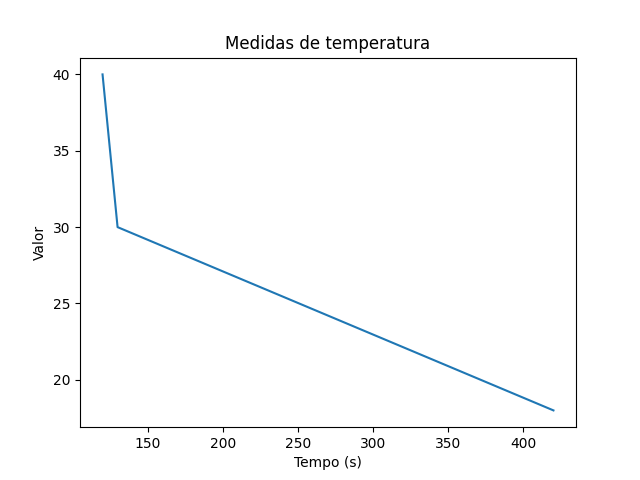
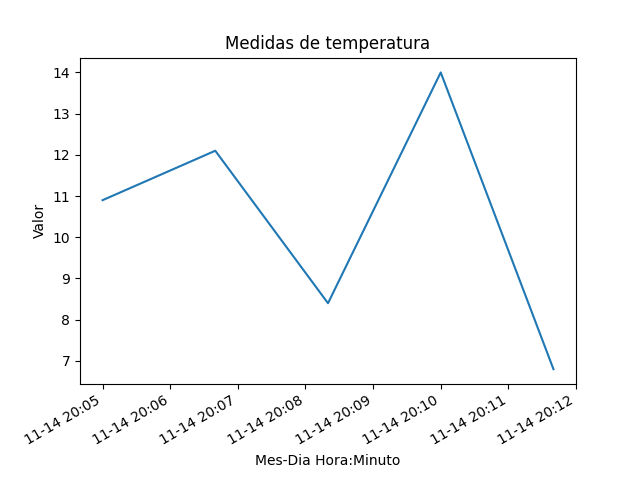
mudanças para os graficos

diff --git a/templates/base.html b/templates/base.html
@@ -14,8 +14,6 @@
         <div class="d-flex flex-column align-items-start text-center">
             <h4 class="text-white p-3 border-bottom w-100">Sensores</h4>
             <ul class="nav nav-pills flex-column mb-auto w-100">
-
-
             </ul>
         </div>
     </nav>

diff --git a/aux.py b/aux.py
@@ -1,6 +1,8 @@
 import sqlite3
 from bs4 import BeautifulSoup as Soup
 import matplotlib.pyplot as plt
+import matplotlib.dates as mdates
+from datetime import datetime
 
 DB_file = "sampleDB.db"
 
@@ -28,26 +30,25 @@ def RetrieveSensorData(sensorId):
         connection = sqlite3.connect(DB_file)
         cursor = connection.cursor()
 
-        cursor.execute(f"SELECT Valor FROM Registros WHERE (Sensor={sensorId} AND Tipo=1);")
+        cursor.execute(f"SELECT Valor FROM Registros WHERE (Sensor={sensorId} AND Tipo=1) ORDER BY TimeStamp DESC LIMIT 5;")
         DataList.append(cursor.fetchall())
 
-        cursor.execute(f"SELECT TimeStamp FROM Registros WHERE (Sensor={sensorId} AND Tipo=1);")
+        cursor.execute(f"SELECT TimeStamp FROM Registros WHERE (Sensor={sensorId} AND Tipo=1) ORDER BY TimeStamp DESC LIMIT 5;")
         DataList.append(cursor.fetchall())
 
-        cursor.execute(f"SELECT Valor FROM Registros WHERE (Sensor={sensorId} AND Tipo=2);")
+        cursor.execute(f"SELECT Valor FROM Registros WHERE (Sensor={sensorId} AND Tipo=2) ORDER BY TimeStamp DESC LIMIT 5;")
         DataList.append(cursor.fetchall())
 
-        cursor.execute(f"SELECT TimeStamp FROM Registros WHERE (Sensor={sensorId} AND Tipo=2);")
+        cursor.execute(f"SELECT TimeStamp FROM Registros WHERE (Sensor={sensorId} AND Tipo=2) ORDER BY TimeStamp DESC LIMIT 5;")
         DataList.append(cursor.fetchall())
 
-        cursor.execute(f"SELECT Valor FROM Registros WHERE (Sensor={sensorId} AND Tipo=3);")
+        cursor.execute(f"SELECT Valor FROM Registros WHERE (Sensor={sensorId} AND Tipo=3) ORDER BY TimeStamp DESC LIMIT 5;")
         DataList.append(cursor.fetchall())
 
-        cursor.execute(f"SELECT TimeStamp FROM Registros WHERE (Sensor={sensorId} AND Tipo=3);")
+        cursor.execute(f"SELECT TimeStamp FROM Registros WHERE (Sensor={sensorId} AND Tipo=3) ORDER BY TimeStamp DESC LIMIT 5;")
         DataList.append(cursor.fetchall())
 
         connection.close()
-        print(DataList)
         return DataList
 
     except sqlite3.Error as e:
@@ -105,31 +106,42 @@ def MakeGraphsForSensor(sensorId):
 
     ValoresTipo1 = DataList[0]
     TimesTipo1 = DataList[1]
+    DateTimes1 = [datetime.fromtimestamp(t[0]) for t in TimesTipo1]
 
-    plt.plot(TimesTipo1, ValoresTipo1)
-    plt.xlabel("Tempo (s)")
+    print(DateTimes1)
+
+    plt.plot(DateTimes1, ValoresTipo1)
+    plt.xlabel("Mes-Dia Hora:Minuto")
     plt.ylabel("Valor")
     plt.title("Medidas de temperatura")
+    plt.gca().xaxis.set_major_formatter(mdates.DateFormatter('%m-%d %H:%M'))
+    plt.gcf().autofmt_xdate()
     plt.savefig(f"static/tempGraph/{sensorId}.png")
     plt.clf()
 
     ValoresTipo2 = DataList[2]
     TimesTipo2 = DataList[3]
+    DateTimes2 = [datetime.fromtimestamp(t[0]) for t in TimesTipo2]
 
-    plt.plot(TimesTipo2, ValoresTipo2)
-    plt.xlabel("Tempo (s)")
+    plt.plot(DateTimes2, ValoresTipo2)
+    plt.xlabel("Mes-Dia Hora:Minuto")
     plt.ylabel("Valor")
     plt.title("Medidas de poeira")
+    plt.gca().xaxis.set_major_formatter(mdates.DateFormatter('%m-%d %H:%M'))
+    plt.gcf().autofmt_xdate()
     plt.savefig(f"static/dustGraph/{sensorId}.png")
     plt.clf()
 
     ValoresTipo3 = DataList[4]
     TimesTipo3 = DataList[5]
+    DateTimes3 = [datetime.fromtimestamp(t[0]) for t in TimesTipo3]
 
-    plt.plot(TimesTipo3, ValoresTipo3)
-    plt.xlabel("Tempo (s)")
+    plt.plot(DateTimes3, ValoresTipo3)
+    plt.xlabel("Mes-Dia Hora:Minuto")
     plt.ylabel("Valor")
     plt.title("Medidas de umidade")
+    plt.gca().xaxis.set_major_formatter(mdates.DateFormatter('%m-%d %H:%M'))
+    plt.gcf().autofmt_xdate()
     plt.savefig(f"static/umiGraph/{sensorId}.png")
     plt.clf()
 

diff --git a/makeSampleDB.py b/makeSampleDB.py
@@ -11,43 +11,103 @@ sensors = [
 
 # tuplas (Valor, Tipo, TimeStamp, Sensor)
 data = [
-    (10, 1, 120, 1),
-    (20, 1, 130, 1),
-    (15, 1, 420, 1),
+    (10.2, 1, 1700000000, 1),
+    (12.7, 1, 1700000100, 1),
+    (8.9, 1, 1700000200, 1),
+    (14.3, 1, 1700000300, 1),
+    (6.5, 1, 1700000400, 1),
+    (9.8, 1, 1700000500, 1),
+    (11.1, 1, 1700000600, 1),
+    (7.4, 1, 1700000700, 1),
+    (13.0, 1, 1700000800, 1),
 
-    (10, 2, 120, 1),
-    (15, 2, 130, 1),
-    (50, 2, 140, 1),
+    # --- Type 2 ---
+    (5.6, 2, 1700000900, 1),
+    (7.2, 2, 1700001000, 1),
+    (9.9, 2, 1700001100, 1),
+    (4.7, 2, 1700001200, 1),
+    (8.3, 2, 1700001300, 1),
+    (6.1, 2, 1700001400, 1),
+    (10.4, 2, 1700001500, 1),
+    (7.9, 2, 1700001600, 1),
+    (5.3, 2, 1700001700, 1),
 
-    (50, 3, 50, 1),
-    (20, 3, 100, 1),
-    (1, 3, 190, 1),
+    # --- Type 3 ---
+    (15.8, 3, 1700001800, 1),
+    (11.5, 3, 1700001900, 1),
+    (9.0, 3, 1700002000, 1),
+    (13.7, 3, 1700002100, 1),
+    (10.1, 3, 1700002200, 1),
+    (16.9, 3, 1700002300, 1),
+    (8.2, 3, 1700002400, 1),
+    (12.4, 3, 1700002500, 1),
+    (14.6, 3, 1700002600, 1),
 
     # dados para sensor 2
-    (40, 1, 120, 2),
-    (30, 1, 130, 2),
-    (18, 1, 420, 2),
+    (11.4, 1, 1700002700, 2),
+    (9.7, 1, 1700002800, 2),
+    (13.2, 1, 1700002900, 2),
+    (7.6, 1, 1700003000, 2),
+    (10.9, 1, 1700003100, 2),
+    (12.1, 1, 1700003200, 2),
+    (8.4, 1, 1700003300, 2),
+    (14.0, 1, 1700003400, 2),
+    (6.8, 1, 1700003500, 2),
 
-    (100, 2, 120, 2),
-    (150, 2, 130, 2),
-    (150, 2, 140, 2),
+    # --- Type 2 ---
+    (5.9, 2, 1700003600, 2),
+    (8.7, 2, 1700003700, 2),
+    (10.2, 2, 1700003800, 2),
+    (6.3, 2, 1700003900, 2),
+    (7.5, 2, 1700004000, 2),
+    (9.1, 2, 1700004100, 2),
+    (4.8, 2, 1700004200, 2),
+    (11.3, 2, 1700004300, 2),
+    (6.6, 2, 1700004400, 2),
 
-    (30, 3, 50, 2),
-    (29, 3, 100, 2),
-    (3, 3, 190, 2),
+    # --- Type 3 ---
+    (16.2, 3, 1700004500, 2),
+    (12.8, 3, 1700004600, 2),
+    (9.4, 3, 1700004700, 2),
+    (15.1, 3, 1700004800, 2),
+    (11.7, 3, 1700004900, 2),
+    (17.3, 3, 1700005000, 2),
+    (13.5, 3, 1700005100, 2),
+    (10.6, 3, 1700005200, 2),
+    (14.9, 3, 1700005300, 2),
 
     # dados para sensor 3
-    (13, 1, 120, 3),
-    (22, 1, 130, 3),
-    (5, 1, 420, 3),
+    (10.7, 1, 1700005400, 3),
+    (8.6, 1, 1700005500, 3),
+    (12.9, 1, 1700005600, 3),
+    (7.3, 1, 1700005700, 3),
+    (11.8, 1, 1700005800, 3),
+    (9.5, 1, 1700005900, 3),
+    (14.2, 1, 1700006000, 3),
+    (6.9, 1, 1700006100, 3),
+    (13.4, 1, 1700006200, 3),
 
-    (80, 2, 120, 3),
-    (69, 2, 130, 3),
-    (30, 2, 140, 3),
+    # --- Type 2 ---
+    (5.4, 2, 1700006300, 3),
+    (7.6, 2, 1700006400, 3),
+    (9.8, 2, 1700006500, 3),
+    (4.9, 2, 1700006600, 3),
+    (8.1, 2, 1700006700, 3),
+    (6.2, 2, 1700006800, 3),
+    (10.5, 2, 1700006900, 3),
+    (7.7, 2, 1700007000, 3),
+    (5.1, 2, 1700007100, 3),
 
-    (40, 3, 50, 3),
-    (70, 3, 100, 3),
-    (15, 3, 190, 3),
+    # --- Type 3 ---
+    (15.4, 3, 1700007200, 3),
+    (11.9, 3, 1700007300, 3),
+    (9.3, 3, 1700007400, 3),
+    (13.6, 3, 1700007500, 3),
+    (10.4, 3, 1700007600, 3),
+    (16.7, 3, 1700007700, 3),
+    (12.2, 3, 1700007800, 3),
+    (14.8, 3, 1700007900, 3),
+    (9.6, 3, 1700008000, 3),
 
 ]
 
